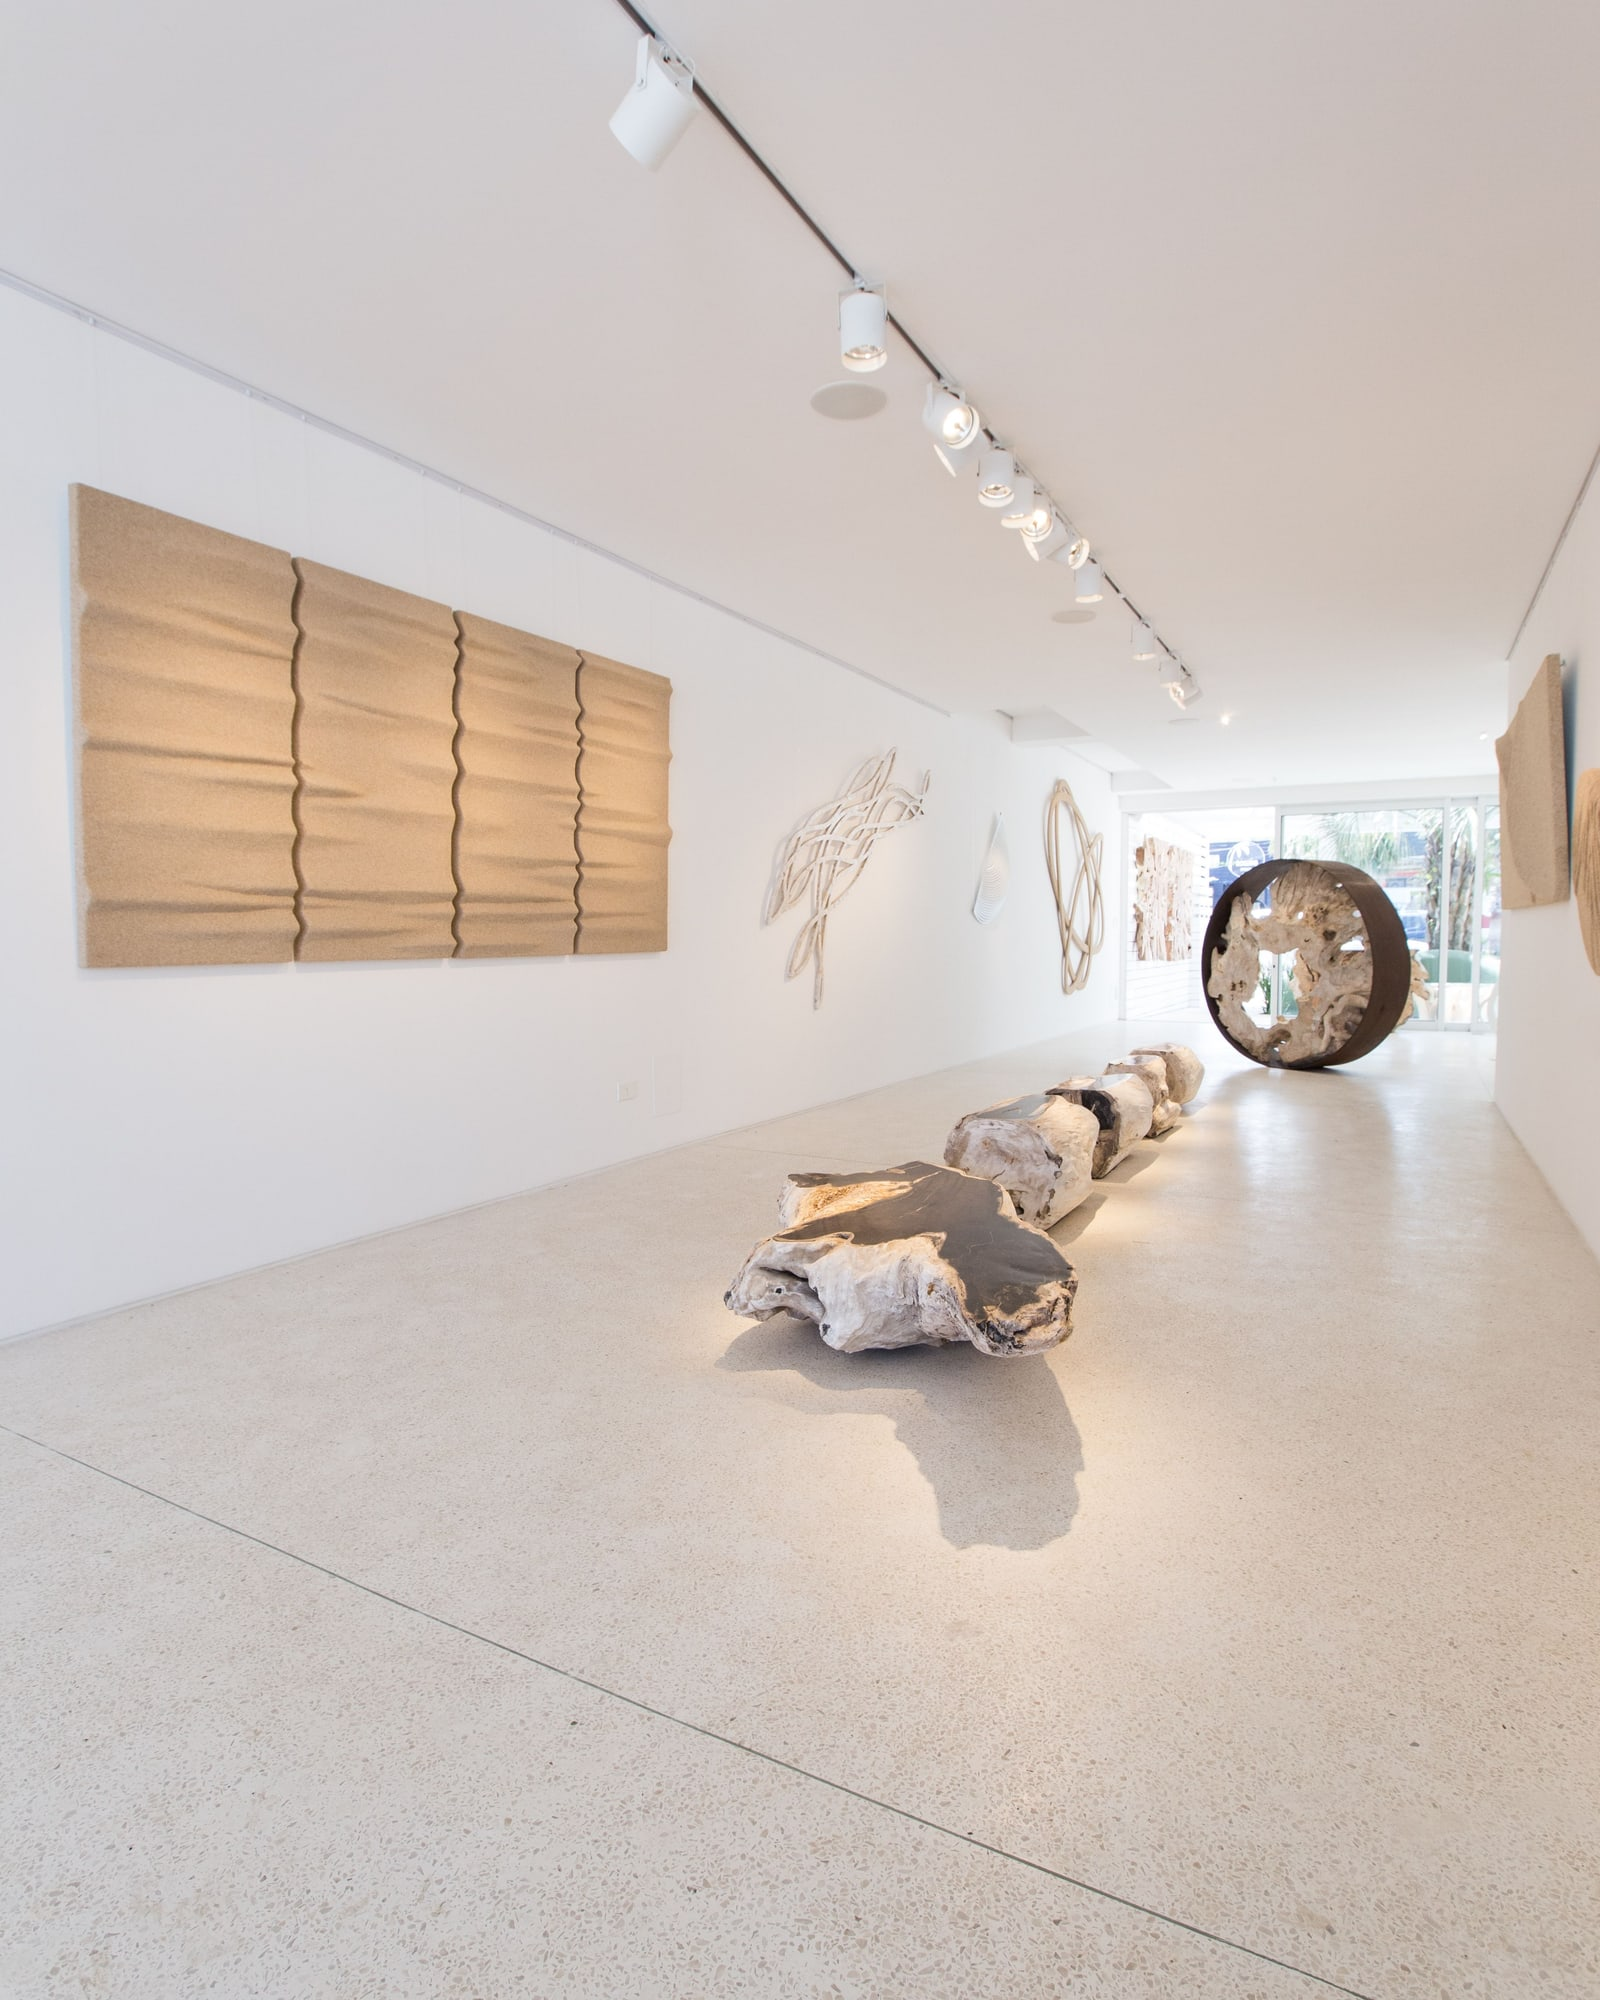
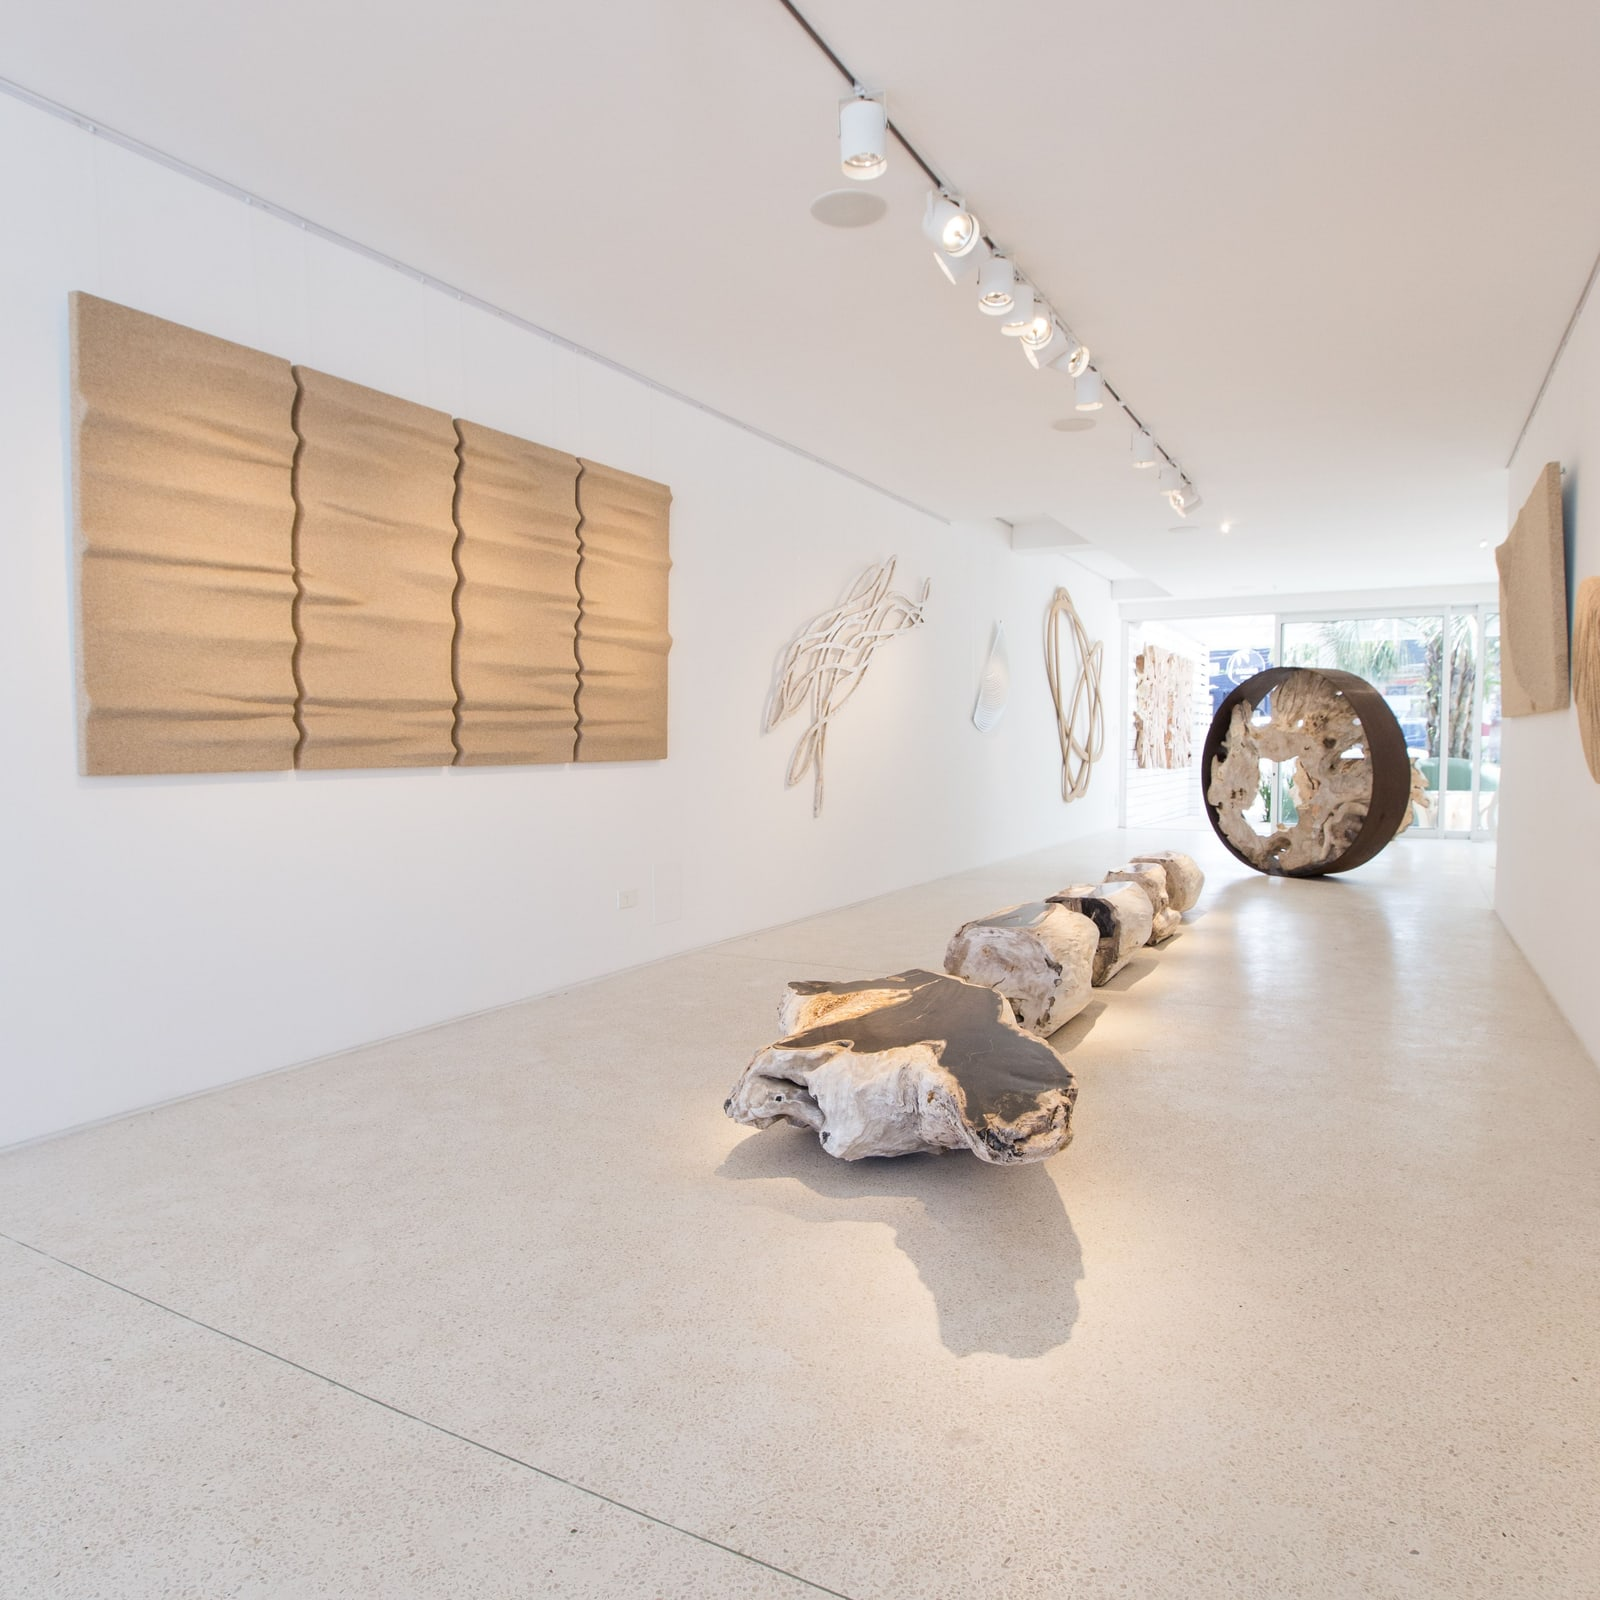
fix: open the home page on a square photo on phones, with the way there in view
Ale picked a square photo over the upright one so "Cómo llegar" stays on a
phone's first screen. Measured, the square alone still left the button cut
at the bottom of a 390 by 844 screen, so the space under the photo is a
little tighter on phones only. The button is now whole on the first screen
of an iPhone 14, 15 and 15 Plus and a Pixel, as on the live site, and an end
to end test holds it there. As today, it is one scroll away on an iPhone SE
and in Safari while its bars show.

Claude-Session: https://claude.ai/code/session_01YFZGJQUMfnxkXYnxMVTLDm

diff --git a/src/lib/pages/home-page.svelte b/src/lib/pages/home-page.svelte
@@ -29,12 +29,14 @@
 <Seo {lang} page="home" />
 
 <!--
-	The page opens on the room itself, edge to edge: an upright photo on a phone, a horizontal
-	one on a wide screen. The way there comes right under it.
+	The page opens on the room itself, edge to edge: a square photo on a phone and a horizontal
+	one on a wide screen. The way there comes right under it. On a phone the space under the
+	photo is a little tighter, so that the square photo, what Silu is and "Cómo llegar" all fit
+	on the first screen of a phone such as an iPhone 14.
 -->
 <section class="pb-section">
 	<!-- The photo starts a touch too close and settles back as the page opens. -->
-	<div class="aspect-tall max-h-hero w-full overflow-hidden md:aspect-facade">
+	<div class="aspect-square max-h-hero w-full overflow-hidden md:aspect-facade">
 		<OpeningPhoto
 			tall={HERO_PHOTO_TALL}
 			wide={HERO_PHOTO}
@@ -42,13 +44,17 @@
 			class="motion-safe:animate-settle"
 		/>
 	</div>
-	<div class="mx-auto grid max-w-page gap-8 px-gutter pt-8 lg:grid-cols-12 lg:gap-x-16 lg:pt-12">
+	<div
+		class="mx-auto grid max-w-page gap-5 px-gutter pt-6 md:gap-8 md:pt-8 lg:grid-cols-12 lg:gap-x-16 lg:pt-12"
+	>
 		<div class="flex flex-col gap-4 motion-safe:animate-arrive lg:col-span-7">
 			<p class="text-label text-ink-soft uppercase">{copy.home.eyebrow}</p>
 			<h1 class="font-serif text-display font-light text-balance">{copy.home.title}</h1>
 		</div>
 		<!-- The address and the way there come first, so they are in view when the page opens. -->
-		<div class="flex flex-col gap-6 arrive-after-1 motion-safe:animate-arrive lg:col-span-5">
+		<div
+			class="flex flex-col gap-4 arrive-after-1 motion-safe:animate-arrive md:gap-6 lg:col-span-5"
+		>
 			<p class="text-label text-ink-soft uppercase">
 				{SITE.address.street} · {SITE.address.locality}, {SITE.address.country}
 			</p>

diff --git a/src/routes/site.e2e.ts b/src/routes/site.e2e.ts
@@ -583,7 +583,7 @@ test('the home page opens on a photo that runs edge to edge', async ({ page }) =
 	await expect(page.getByRole('link', { name: 'Cómo llegar' }).first()).toBeInViewport();
 });
 
-test('a phone opens the home page on an upright photo, and a wide screen on a horizontal one', async ({
+test('a phone opens the home page on a square photo with the way there in view, and a wide screen on a horizontal one', async ({
 	page
 }) => {
 	const opening = page.getByRole('img', { name: /Interior de la galería Silu/ });
@@ -598,13 +598,15 @@ test('a phone opens the home page on an upright photo, and a wide screen on a ho
 	await settled(page);
 	await expect.poll(async () => (await shown()).file).toContain('sala-01-alta');
 	const onPhone = await shown();
-	// Upright like the screen, edge to edge, and never taller than the screen itself.
+	// Square and edge to edge: half as tall again as the horizontal photo a phone once got.
 	expect(onPhone.box.x).toBe(0);
 	expect(onPhone.box.width).toBe(PHONE.width);
-	expect(onPhone.box.height).toBeGreaterThan(onPhone.box.width);
-	expect(onPhone.box.height).toBeLessThan(PHONE.height);
-	// What Silu is still starts on the first screen.
-	await expect(page.getByRole('heading', { level: 1 })).toBeInViewport();
+	expect(Math.round(onPhone.box.height)).toBe(PHONE.width);
+	// And the way there is still whole on the first screen, under what Silu is.
+	await expect(page.getByRole('heading', { level: 1 })).toBeInViewport({ ratio: 1 });
+	await expect(page.getByRole('link', { name: 'Cómo llegar' }).first()).toBeInViewport({
+		ratio: 1
+	});
 
 	await page.setViewportSize({ width: 1440, height: 900 });
 	await expect.poll(async () => (await shown()).file).not.toContain('alta');

diff --git a/src/lib/pages/home-page.svelte.spec.ts b/src/lib/pages/home-page.svelte.spec.ts
@@ -42,15 +42,15 @@ describe('home-page.svelte', () => {
 			.toHaveAttribute('href', expect.stringMatching(/\/obras\/guijarro\/?$/));
 	});
 
-	it('opens on a photo in two shapes, upright for a phone and horizontal for a wide screen', async () => {
+	it('opens on a photo in two shapes, square for a phone and horizontal for a wide screen', async () => {
 		const { container } = render(HomePage, { lang: 'es' });
 		await expect.element(page.getByRole('heading', { level: 1 })).toBeVisible();
 		const opening = container.querySelector('picture');
 		const sources = [...(opening?.querySelectorAll('source') ?? [])];
 		expect(sources.some((source) => source.media !== '')).toBe(true);
 		expect(sources.some((source) => source.media === '')).toBe(true);
-		// Its place is upright on a phone and a low band on a wide screen.
-		expect(opening?.parentElement?.classList.contains('aspect-tall')).toBe(true);
+		// Its place is square on a phone and a low band on a wide screen.
+		expect(opening?.parentElement?.classList.contains('aspect-square')).toBe(true);
 		expect(opening?.parentElement?.classList.contains('md:aspect-facade')).toBe(true);
 	});
 

diff --git a/src/lib/components/opening-photo.svelte b/src/lib/components/opening-photo.svelte
@@ -8,7 +8,7 @@
 	import { cn } from '#lib/utils/cn.ts';
 
 	interface Props {
-		/** The upright photo, for a phone. */
+		/** The photo framed for a phone: square or upright. */
 		tall: Picture;
 		/** The horizontal photo, for a wide screen. */
 		wide: Picture;
@@ -23,8 +23,8 @@
 </script>
 
 <!--
-	The photo a page opens on, in two shapes: upright for a phone and horizontal for a wide
-	screen, so each screen gets a photo framed for it. The browser picks one and loads only
+	The photo a page opens on, in two shapes: one framed for a phone and a horizontal one for a
+	wide screen, so each screen gets a photo framed for it. The browser picks one and loads only
 	that one, at once and ahead of everything else. The photo fills its place and is cut to
 	it, so the place decides how much of the photo shows.
 -->

diff --git a/src/lib/content/images.ts b/src/lib/content/images.ts
@@ -84,8 +84,9 @@ export const HERO_PHOTO: Picture = inOrder(
 )[0];
 
 /**
- * The photo that opens the home page on a phone: another view of the same room, upright, so
- * it fills the screen a phone is held in. Its widths are those of phone screens.
+ * The photo that opens the home page on a phone: another view of the same room, square, so it
+ * is taller than a horizontal one and still leaves the way there on the first screen. Its
+ * widths are those of phone screens.
  */
 export const HERO_PHOTO_TALL: Picture = inOrder(
 	import.meta.glob<PictureModule>('/src/lib/assets/gallery/sala-01-alta.jpg', {

diff --git a/src/lib/components/opening-photo.svelte.spec.ts b/src/lib/components/opening-photo.svelte.spec.ts
@@ -19,7 +19,7 @@ describe('opening-photo.svelte', () => {
 		expect(page.getByRole('img').elements()).toHaveLength(1);
 	});
 
-	it('offers the horizontal photo to a wide screen first, and the upright one to every other', async () => {
+	it('offers the horizontal photo to a wide screen first, and the phone one to every other', async () => {
 		const { container } = render(OpeningPhoto, props);
 		await expect.element(page.getByRole('img', { name: alt })).toBeInTheDocument();
 		const sources = sourcesIn(container);

diff --git a/src/routes/layout.css b/src/routes/layout.css
@@ -105,7 +105,6 @@
 	); /* widest a photo gets in the row a phone swipes through: the edge of the next one stays in view, to say there is more */
 	--container-prose: 40rem;
 	--aspect-room: 3 / 2;
-	--aspect-tall: 4 / 5; /* the photo a phone opens the home page on: upright, like the screen */
 	--aspect-facade: 5 / 2;
 	--aspect-coast: 11 / 5; /* the coast map: the shape of its drawing in content/coast-map.ts */
 	--aspect-film: 9 / 16;

diff --git a/README.md b/README.md
@@ -8,7 +8,7 @@ The site is static: SvelteKit builds every page in Spanish and in English into `
 
 "La sala". The page is the gallery wall and the works supply the colour. Photos are large and come first: the home page opens on a photo of the room that runs edge to edge, the works hang two to a row at their own shape on a shared baseline, and a work's page is its photos with the label beside them, or on a phone one row of photos to swipe through with the label under it. The first job of the site is to get people to visit the gallery, so the way there (address, directions, WhatsApp) sits right under the opening photo and closes every other page.
 
-The site is made for a phone first, because that is where the artists' visitors see it. Where a photo of the gallery is shown, each screen gets one framed for it: an upright photo on a phone and a horizontal one on a wide screen. The home page opens on an upright photo of the room on a phone (`src/lib/components/opening-photo.svelte`), and its gallery section shows the rooms as upright photos in two columns there and as horizontal photos beside the film on a wide screen (`src/lib/components/gallery-rooms.svelte`). A screen only loads the photos it shows.
+The site is made for a phone first, because that is where the artists' visitors see it. Where a photo of the gallery is shown, each screen gets one framed for it: an upright photo on a phone and a horizontal one on a wide screen. The home page opens on a square photo of the room on a phone, so the way there is still on the first screen (`src/lib/components/opening-photo.svelte`), and its gallery section shows the rooms as upright photos in two columns there and as horizontal photos beside the film on a wide screen (`src/lib/components/gallery-rooms.svelte`). A screen only loads the photos it shows.
 
 The layouts follow three references found on Mobbin: KOBU (two large photos per row with a short caption), MOUTHWASH Studio (each image at its own proportions on one baseline) and the FARFETCH and Nike product pages (photos stacked on the left, the details fixed beside them).
 
